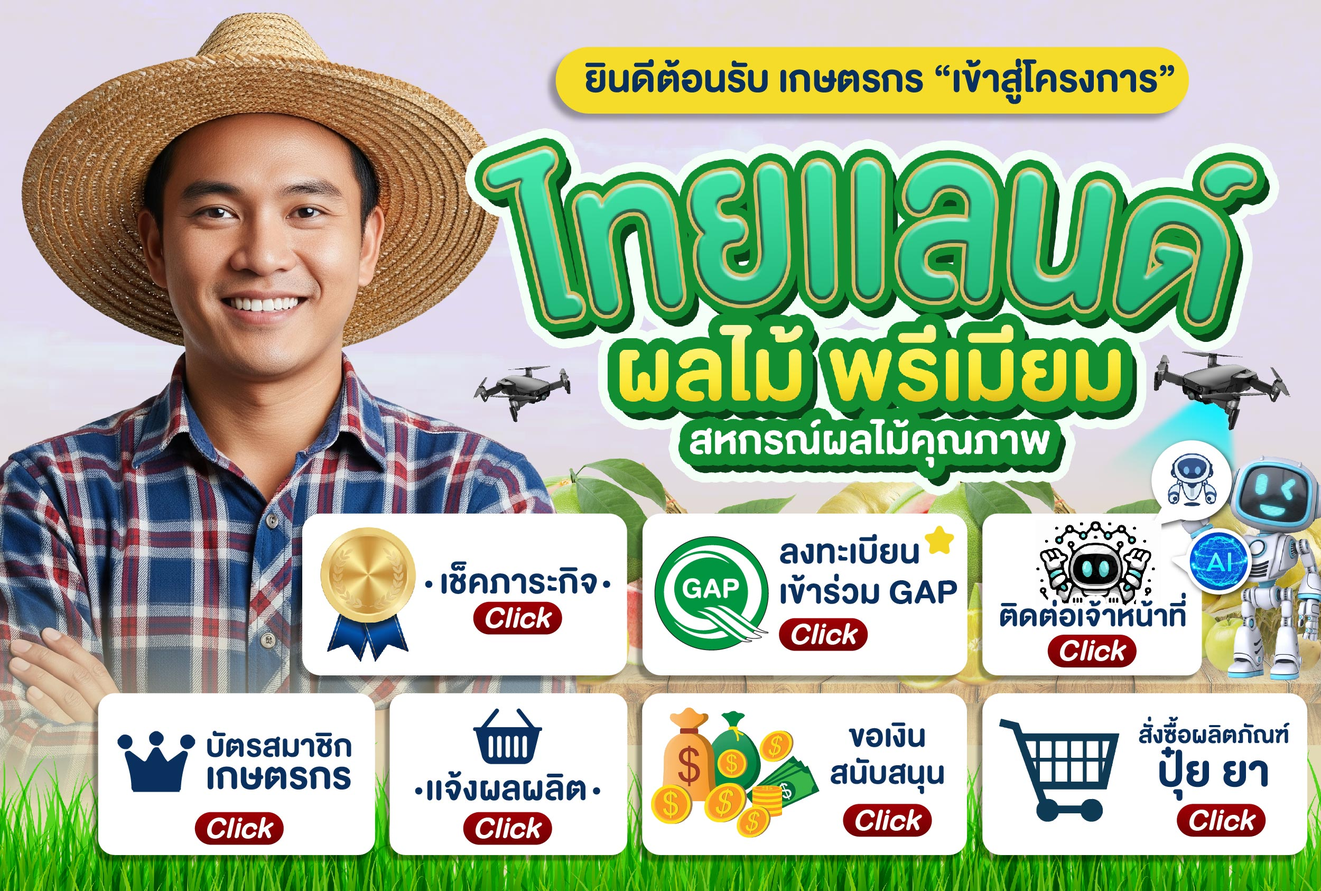
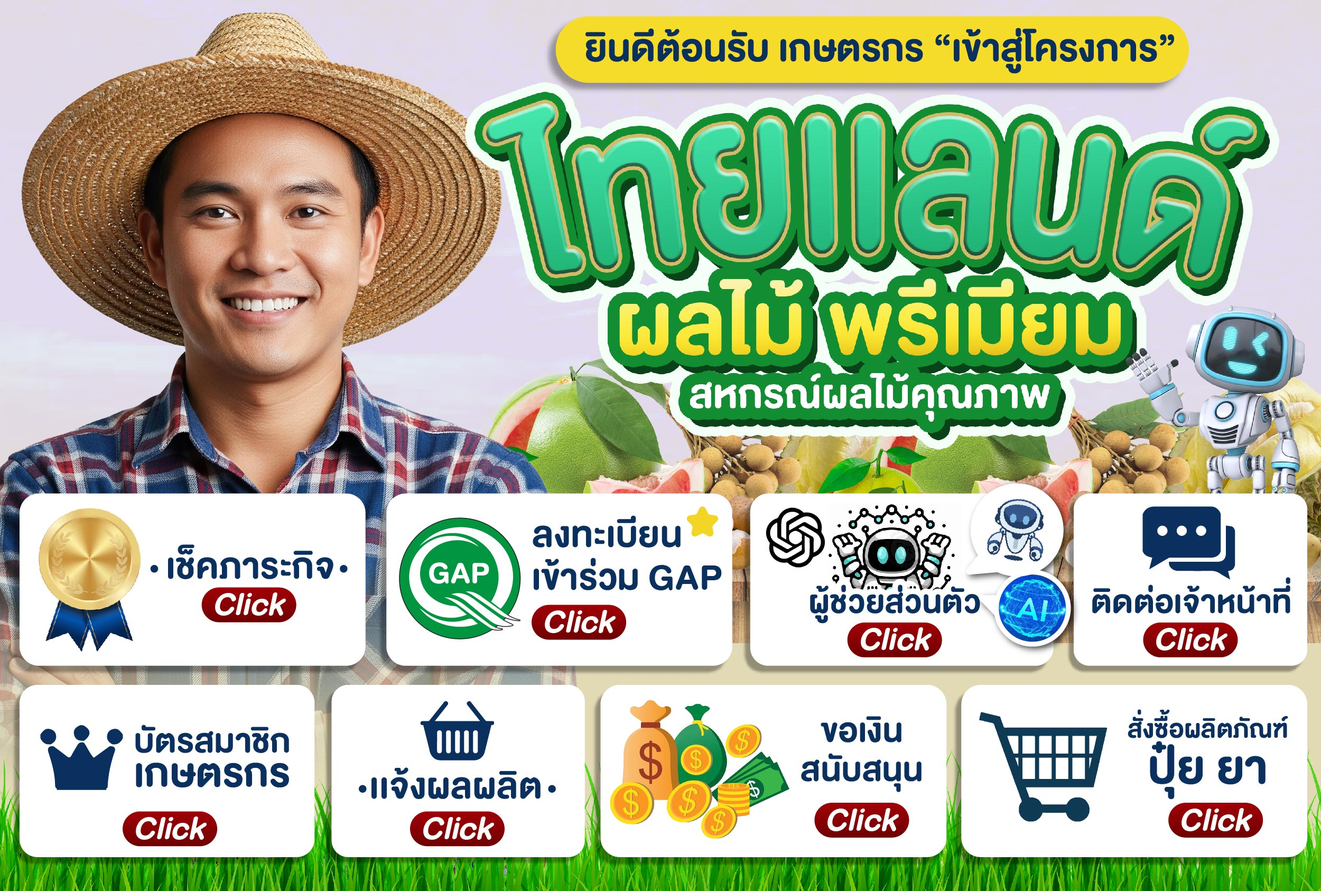
update ChatGPT

diff --git a/src/app/chatGPT/page.jsx b/src/app/chatGPT/page.jsx
@@ -1,0 +1,126 @@
+"use client";
+import React, { useState, useRef, useEffect } from "react";
+
+// Chat Bubble
+const ChatBubble = ({ message, isUser, isTyping }) => (
+  <div className={`flex ${isUser ? "justify-end" : "justify-start"} my-2`}>
+    <div
+      className={`rounded-2xl px-4 py-2 max-w-xs shadow
+        ${isUser
+          ? "bg-blue-500 text-white"
+          : "bg-gray-100 text-gray-800"
+        }`}
+    >
+      {isTyping ? <span className="italic text-gray-400">กำลังพิมพ์...</span> : message}
+    </div>
+  </div>
+);
+
+// Chat Message List
+const ChatMessageList = ({ messages, isTyping }) => {
+  const bottomRef = useRef(null);
+  useEffect(() => {
+    bottomRef.current?.scrollIntoView({ behavior: "smooth" });
+  }, [messages, isTyping]);
+
+  return (
+    <div className="flex flex-col gap-2 overflow-y-auto flex-1 px-4 py-2">
+      {messages.map((msg, idx) => (
+        <ChatBubble key={idx} message={msg.text} isUser={msg.isUser} />
+      ))}
+      {isTyping && <ChatBubble isUser={false} isTyping={true} />}
+      <div ref={bottomRef} />
+    </div>
+  );
+};
+
+const ChatInput = ({ onSend, disabled }) => {
+  const [input, setInput] = useState("");
+  const handleSend = () => {
+    if (input.trim()) {
+      onSend(input);
+      setInput("");
+    }
+  };
+  return (
+    <div className="flex gap-2 p-4 border-t bg-white">
+      <input
+        className="flex-1 border rounded-2xl px-4 py-2 outline-none"
+        placeholder="พิมพ์ข้อความ..."
+        value={input}
+        onChange={(e) => setInput(e.target.value)}
+        onKeyDown={(e) => e.key === "Enter" && handleSend()}
+        disabled={disabled}
+      />
+      <button
+        className="bg-blue-500 text-white px-4 py-2 rounded-2xl shadow hover:bg-blue-600 disabled:opacity-50"
+        onClick={handleSend}
+        disabled={disabled}
+      >
+        Send
+      </button>
+    </div>
+  );
+};
+
+// Main Page
+function ChatGPTPage() {
+  const [messages, setMessages] = useState([
+    { text: "สวัสดีค่ะ มีอะไรให้ช่วยไหม", isUser: false },
+  ]);
+  const [isTyping, setIsTyping] = useState(false);
+
+  // ดึงข้อความจาก OpenAI API ผ่าน /api/chat (แทน mock)
+  const handleSend = async (text) => {
+    setMessages((msgs) => [...msgs, { text, isUser: true }]);
+    setIsTyping(true);
+
+    try {
+      // เรียก API
+      const res = await fetch("/api/farmer/chatgpt", {
+        method: "POST",
+        headers: { "Content-Type": "application/json" },
+        body: JSON.stringify({ message: text }),
+      });
+      const data = await res.json();
+      const botReply = data.reply || "ขออภัย เกิดข้อผิดพลาด";
+
+      // Typing effect ทีละตัวอักษร
+      let i = 0;
+      setMessages((msgs) => [...msgs, { text: "", isUser: false }]);
+      const reveal = () => {
+        setMessages((msgs) => [
+          ...msgs.slice(0, -1),
+          { text: botReply.slice(0, i), isUser: false },
+        ]);
+        i++;
+        if (i <= botReply.length) {
+          setTimeout(reveal, 24);
+        } else {
+          setIsTyping(false);
+        }
+      };
+      reveal();
+    } catch {
+      setMessages((msgs) => [
+        ...msgs,
+        { text: "ขออภัย ไม่สามารถเชื่อมต่อเซิร์ฟเวอร์ได้", isUser: false },
+      ]);
+      setIsTyping(false);
+    }
+  };
+
+  return (
+    <div className="flex flex-col h-screen bg-gray-50">
+      <div className="text-xl font-bold p-4 border-b bg-white shadow-sm">
+        ChatGPT
+      </div>
+      <div className="flex-1 overflow-y-auto">
+        <ChatMessageList messages={messages} isTyping={isTyping} />
+      </div>
+      <ChatInput onSend={handleSend} disabled={isTyping} />
+    </div>
+  );
+}
+
+export default ChatGPTPage;

diff --git a/src/app/register/components/line/create.js b/src/app/register/components/line/create.js
@@ -52,31 +52,35 @@ const richMenuBody = {
   chatBarText: "เกษตรกร",
     areas: [
     {
-      bounds: { x: 882, y: 1124, width: 532, height: 252 },
+      bounds: { x: 321, y: 1094, width: 574, height: 293 },
       action: { type: "message", text: "เช็คภาระกิจ" }
     },
     {
-      bounds: { x: 1523, y: 1124, width: 532, height: 252 },
+      bounds: { x: 987, y: 1094, width: 640, height:293 },
       action: { type: "message", text: "ลงทะเบียนเข้าร่วม GAP" }
     },
     {
-      bounds: { x: 2154, y: 1124, width: 532, height: 252 },
+      bounds: { x:1643, y: 1094, width: 558, height: 293 },
+      action: { type: "message", text: "ผู้ช่วยส่วนตัว" }
+    },
+    {
+      bounds: { x:2222, y: 1094, width: 486, height: 293 },
       action: { type: "message", text: "ติดต่อเจ้าหน้าที่" }
     },
     {
-      bounds: { x: 449, y: 1464, width: 470, height: 252 },
+      bounds: { x: 276, y: 1451, width: 484, height: 293 },
       action: { type: "uri", uri: "https://liff.line.me/2007697520-6KRLnXVP" } 
     },
     {
-      bounds: { x: 958, y: 1464, width: 380, height: 252 },
+      bounds: { x: 800, y: 1451, width: 490, height: 293 },
       action: { type: "message", text: "แจ้งผลผลิต" }
     },
  {
-      bounds: { x: 1524, y: 1464, width: 532, height: 252 },
+      bounds: { x: 1396, y: 1451, width: 603, height: 293 },
       action: { type: "message", text: "ขอเงินสนับสนุน" }
     },
     {
-      bounds: { x: 2154, y: 1464, width: 532, height: 252},
+      bounds: { x: 2117, y: 1451, width: 695, height: 293},
       action: { type: "message", text: "สั่งซื้อผลิตภัณฑ์ปุ๋ย ยา" }
     }
   ]

diff --git a/src/app/api/farmer/chatgpt/route.js b/src/app/api/farmer/chatgpt/route.js
@@ -1,0 +1,28 @@
+// src/app/api/farmer/chatgpt/route.js
+
+export async function POST(req) {
+  const { message } = await req.json();
+
+  const res = await fetch("https://api.openai.com/v1/chat/completions", {
+    method: "POST",
+    headers: {
+      "Content-Type": "application/json",
+      "Authorization": `Bearer ${process.env.OPENAI_API_KEY}`,
+    },
+    body: JSON.stringify({
+      model: "gpt-3.5-turbo",
+      messages: [
+        { role: "system", content: "คุณคือผู้ช่วย AI ภาษาไทย" },
+        { role: "user", content: message },
+      ],
+      temperature: 0.6,
+      max_tokens: 1024,
+      stream: false,
+    }),
+  });
+
+  const data = await res.json();
+  const botReply = data.choices?.[0]?.message?.content || "ขออภัย ระบบมีปัญหา";
+
+  return Response.json({ reply: botReply });
+}

diff --git a/src/app/api/farmer/line/set-richmenu-farmer/route.js b/src/app/api/farmer/line/set-richmenu-farmer/route.js
@@ -7,7 +7,7 @@ import { NextResponse } from "next/server";
[1 lines of base64/hex data omitted]
 const MONGO_URI = process.env.MONGODB_URI;
 // เอาแค่ RichMenu เดียว (เปลี่ยนได้เลย)
-const MEMBER_MENU_ID_FARMER = "richmenu-f9e21c3433e970b8e01221801c397d63";
+const MEMBER_MENU_ID_FARMER = "richmenu-f5b5f0260a53b1e3654cce42237b9dfb";
 
 // --- Helper: connect DB (optional ถ้าใช้ mongoose) ---
 async function dbConnect() {

diff --git a/src/app/register/components/line/addIMG.js b/src/app/register/components/line/addIMG.js
@@ -3,7 +3,7 @@ const fs = require('fs');
 const path = require('path');
 
[1 lines of base64/hex data omitted]
-const richMenuId = 'richmenu-f9e21c3433e970b8e01221801c397d63';
+const richMenuId = 'richmenu-f5b5f0260a53b1e3654cce42237b9dfb';
 
 // ✅ ให้ path เป็น absolute
 const imagePath = path.resolve(__dirname, '../../../../../public/richmenu/richmenu_1751743859220.jpg');

diff --git a/src/app/register/components/line/condition.js b/src/app/register/components/line/condition.js
@@ -94,7 +94,7 @@ const MONGO_URI = process.env.MONGODB_URI;
 
 // --- RichMenu IDs ---
 const REGISTER_MENU_ID = 'richmenu-830e0f0a946983883149cf2c5b811304';      // ยังไม่สมัคร
-const MEMBER_MENU_ID_FARMER = 'richmenu-f9e21c3433e970b8e01221801c397d63'; // สมัครแล้ว (เกษตรกร)
+const MEMBER_MENU_ID_FARMER = 'richmenu-f5b5f0260a53b1e3654cce42237b9dfb'; // สมัครแล้ว (เกษตรกร)
 
 // --- Mongoose Model ---
 const registerSchema = new mongoose.Schema({

diff --git a/src/app/register/components/line/update.js b/src/app/register/components/line/update.js
@@ -1,7 +1,7 @@
 const axios = require('axios');
 
[1 lines of base64/hex data omitted]
-const richMenuId = 'richmenu-63d63972d80bd552ba9727a1c51f271d';
+const richMenuId = 'richmenu-7707062cb4332f4236c0dec274d8d25a';
 
 axios.delete(
   `https://api.line.me/v2/bot/richmenu/${richMenuId}`,
